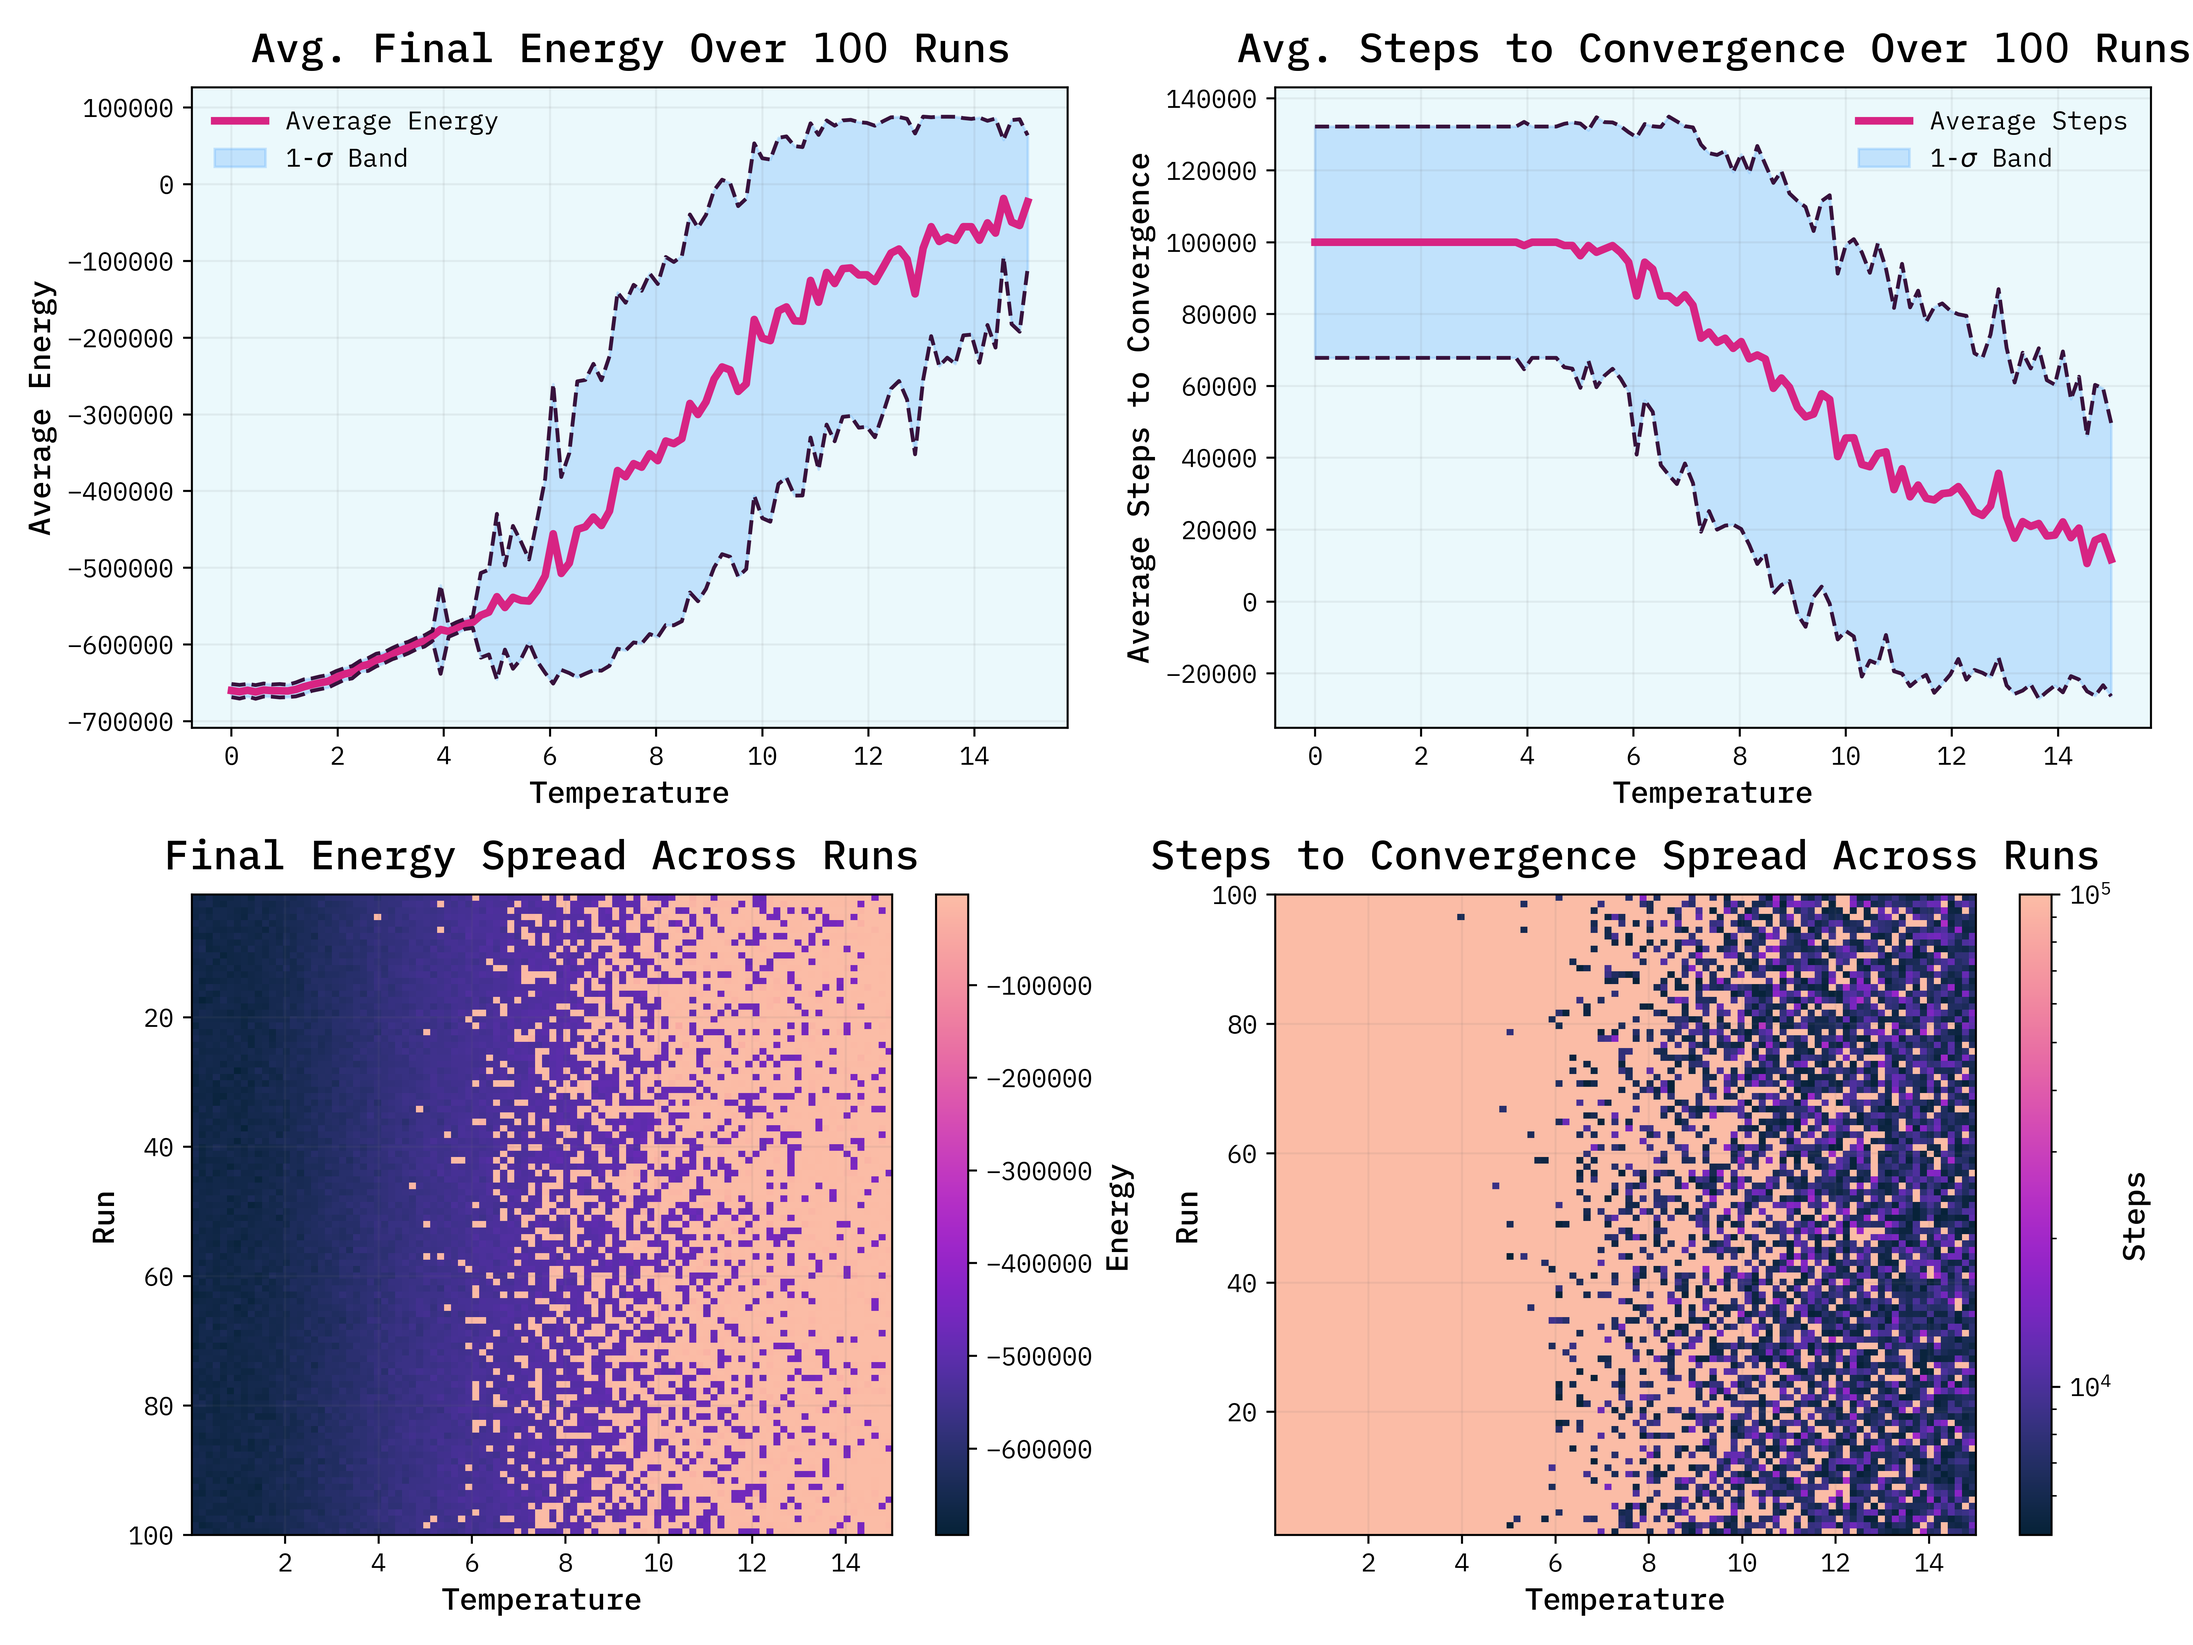
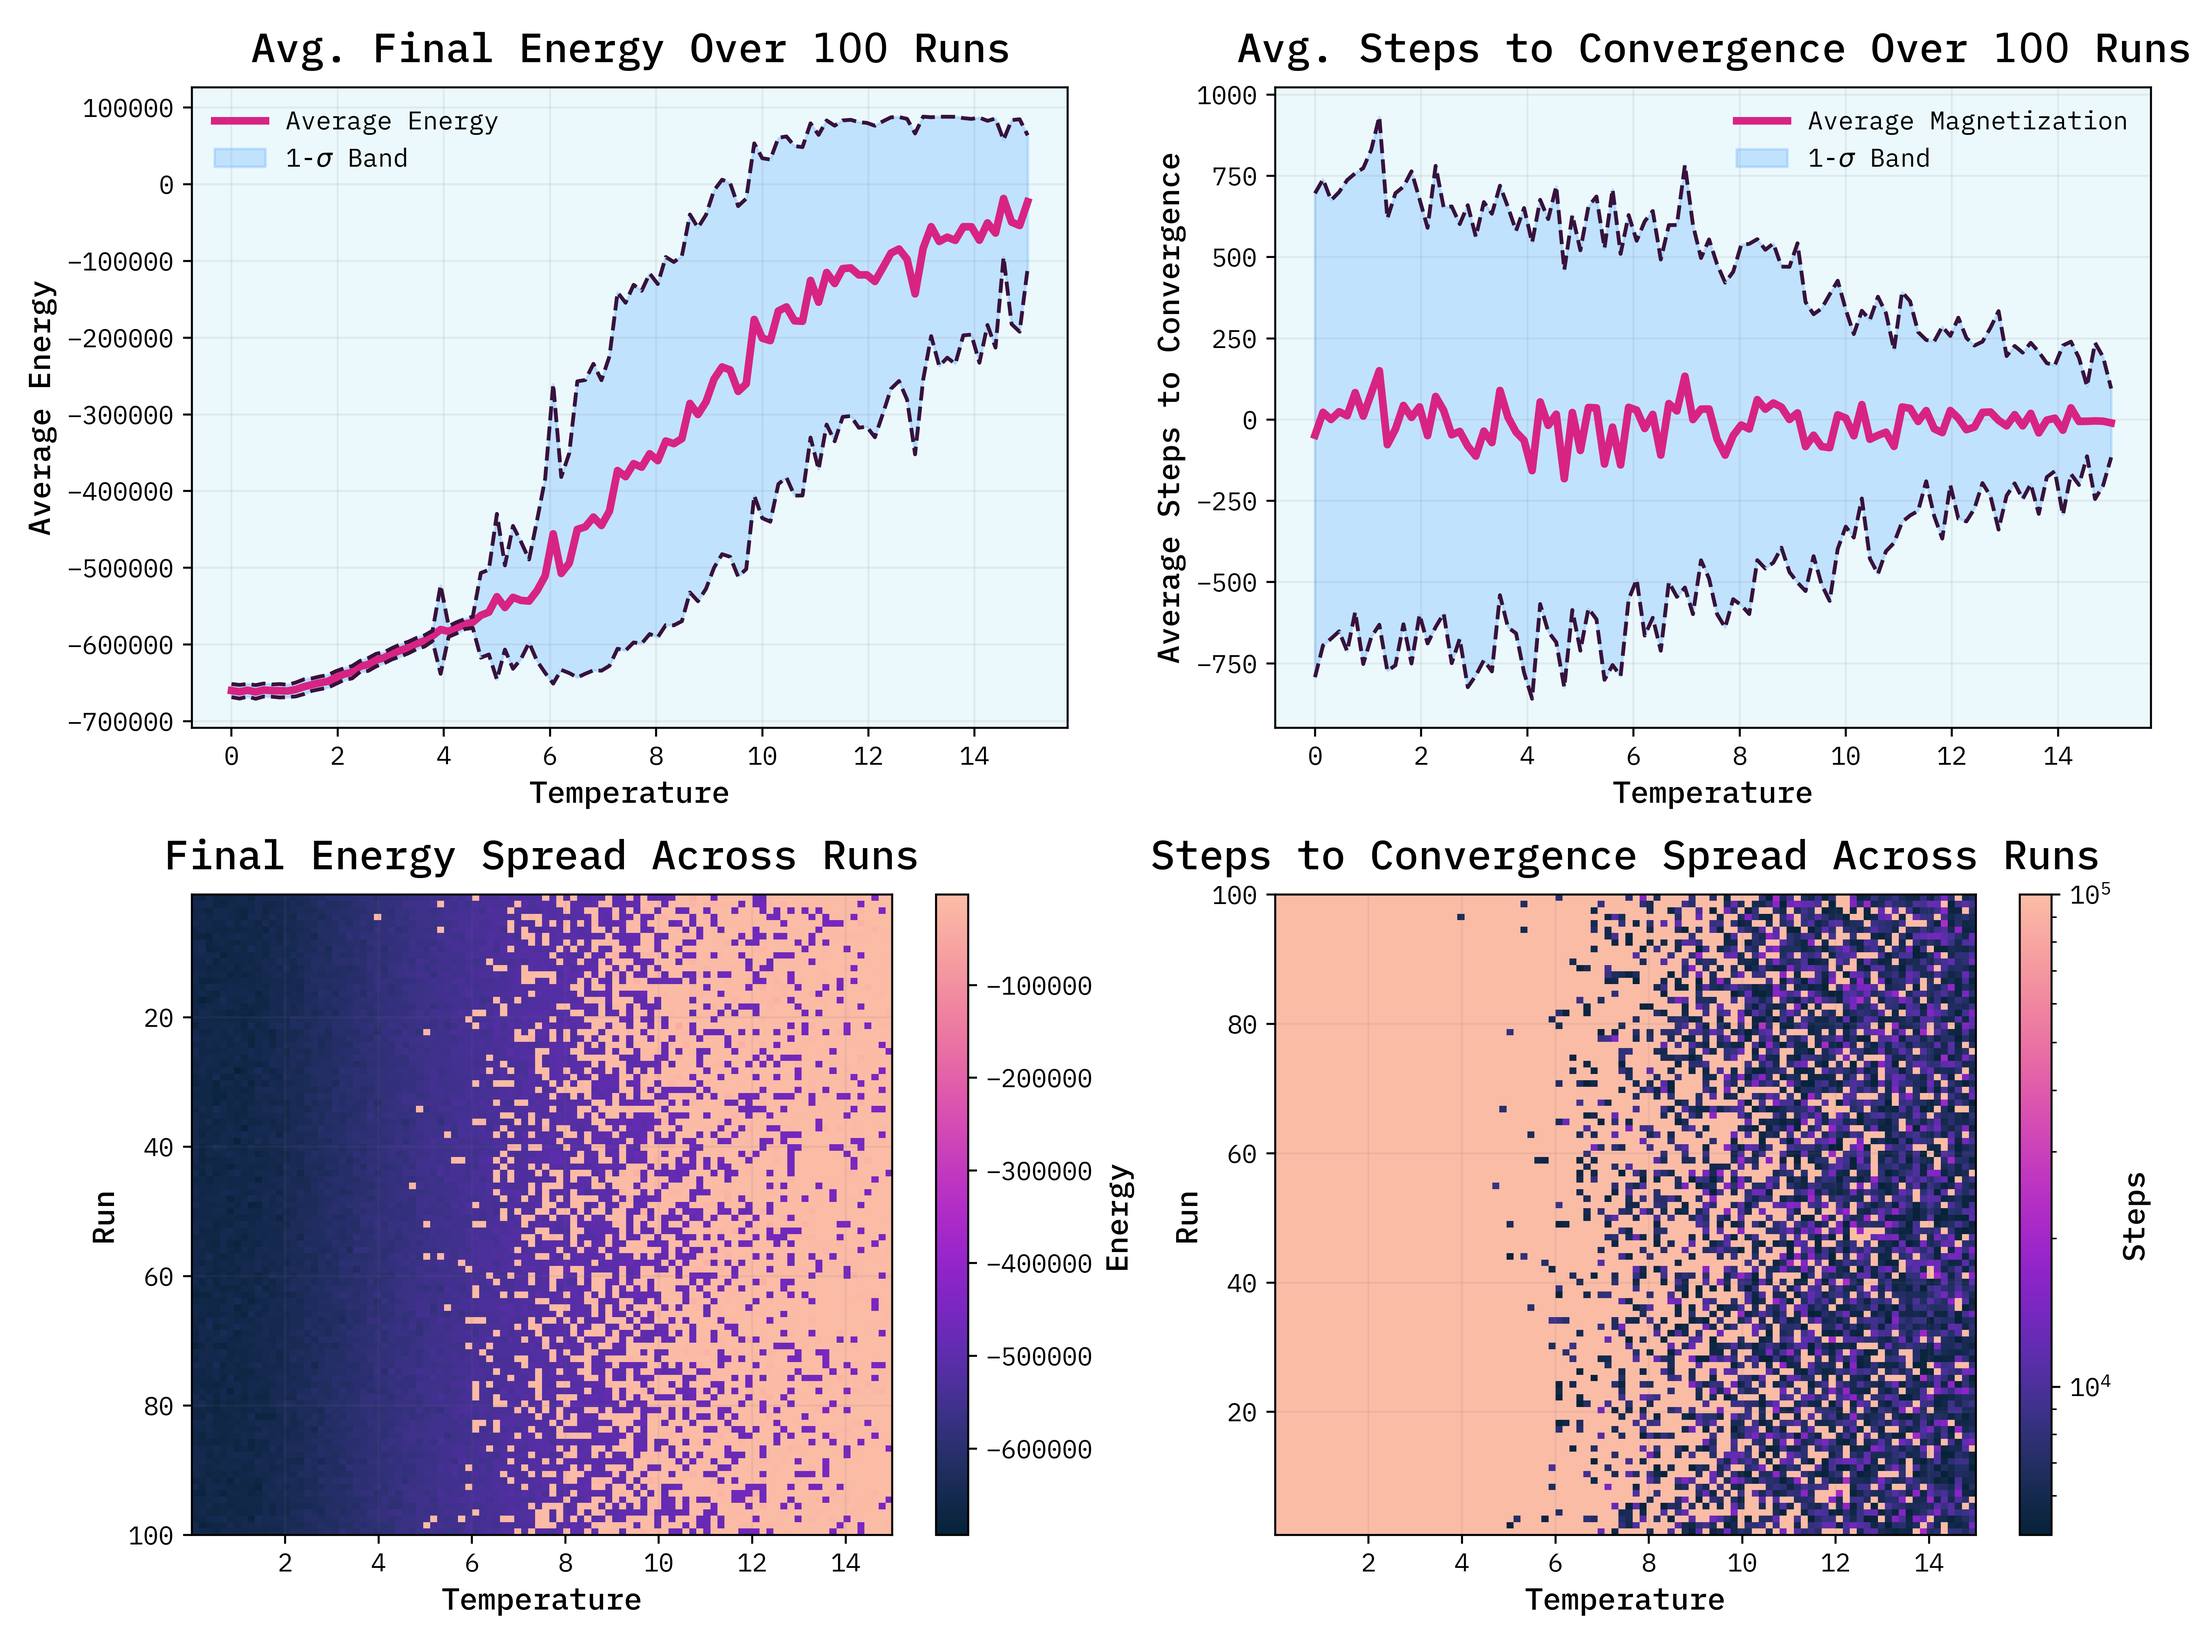
feat: :art: improve main Ising plot

Changed region(s): [[0.5922, 0.0622, 0.9662, 0.4356], [0.4987, 0.0933, 0.5922, 0.4356]]

diff --git a/IsingModel/Code/S-vs-T-plot.py b/IsingModel/Code/S-vs-T-plot.py
@@ -1,0 +1,134 @@
+"""
+Plot the average relaxation energy of the system as a function of temperature.
+"""
+import numpy as np
+import matplotlib.pyplot as plt
+import matplotlib as mpl
+import h5py
+import cmasher as cmr
+import palettable as pl
+
+# Enable custom stylesheet
+plt.style.use('./ma-style.mplstyle')
+mpl.use("qtagg")
+
+# Simulation parameters
+save_path = "./IsingModel/Results/avgE-vs-T-fixedscale.h5"
+bounds = (-18, 0)
+length = 17
+temperature = 1
+init = [0, -17, -4, -2, -8, -13, -7, -2, -5, -2, -3, -2, -3, -10, -15, -7, 0]
+molecules = np.arange(0, 17)
+T_values = np.loadtxt("./IsingModel/Code/T_range.lst")
+
+# Containers for data
+steps_to_convergence = []
+end_energy = []
+end_temperature = []
+end_states = []
+# Load data
+with h5py.File(save_path, "r") as f:
+    num_runs = 100
+
+    for i, T in enumerate(T_values):
+        row_states = []
+        row_steps = []
+        row_end_energy = []
+        row_end_temperature = []
+
+        for run in range(num_runs):
+            key = f"{T}-{run}"
+            group = f[key]
+            row_states.append(group[f"state-{key}"][:])
+            row_steps.append(len(group[f"energy-{key}"]))
+            row_end_energy.append(group[f"energy-{key}"][-1])
+            row_end_temperature.append(group[f"temperature-{key}"][-1])
+
+        end_states.append(row_states)
+        steps_to_convergence.append(row_steps)  
+        end_energy.append(row_end_energy)
+        end_temperature.append(row_end_temperature)
+
+# Calculate statistics
+steps_to_convergence = np.array(steps_to_convergence)
+avg_steps = np.mean(steps_to_convergence, axis=1)
+sigma_steps = np.std(steps_to_convergence - avg_steps, axis=1)
+
+end_energy = np.array(end_energy)
+avg_energy = np.mean(end_energy, axis=1)
+sigma_energy = np.std(end_energy, axis=1)
+
+end_temperature = np.array(end_temperature)
+avg_temperature = np.mean(end_temperature, axis=1)
+delta_temp = T_values - avg_temperature
+sigma_temperature = np.std(T_values - end_temperature, axis=1)
+
+# Calculate Observables: Eigenmagnetization
+def magnetization(state: np.ndarray):
+    S = np.array([[np.sum(np.array(final[run])) for run in range(num_runs)] for final in end_states]) 
+    return S
+
+S = np.abs(magnetization(end_states))
+avgS = np.mean(S, axis=1)
+sigmaS = np.std(S, axis=1)
+
+# Plot data as 3 subplots
+colors = ["#37123c","#d72483","#ddc4dd","#60afff","#98CE00"]
+
+fig, ax = plt.subplots(2, 2, figsize=(12, 9))
+
+# Average energy vs. temperature
+ax[0, 0].plot(T_values, avg_energy, color=colors[1], alpha=1, lw=3, label="Average Energy")
+ax[0, 0].plot(T_values, avg_energy - sigma_energy, color=colors[0], alpha=1, ls="--")
+ax[0, 0].plot(T_values, avg_energy + sigma_energy, color=colors[0], alpha=1, ls="--")
+ax[0, 0].fill_between(T_values, avg_energy - sigma_energy, avg_energy + sigma_energy, 
+                      color=colors[3], alpha=0.3, label="1-$\sigma$ Band")
+
+ax[0, 0].legend(frameon=False)
+ax[0, 0].set_ylabel("Average Energy [arb. units]")
+ax[0, 0].set_xlabel("Temperature")
+ax[0, 0].set_title(r"Avg. Final Energy Over $100$ Runs")
+
+
+# Average magnetization vs. temperature
+ax[0, 1].plot(T_values, avgS, color=colors[1], alpha=1, lw=3, label="Average Magnetization")
+ax[0, 1].plot(T_values, avgS - sigmaS, color=colors[0], alpha=1, ls="--")
+ax[0, 1].plot(T_values, avgS + sigmaS, color=colors[0], alpha=1, ls="--")
+ax[0, 1].fill_between(T_values, avgS - sigmaS, avgS + sigmaS, 
+                      color=colors[3], alpha=0.3, label="1-$\sigma$ Band")
+
+ax[0, 1].legend(frameon=False)
+ax[0, 1].set_ylabel("|Average Magnetization| [arb. units]")
+ax[0, 1].set_xlabel("Temperature")
+ax[0, 1].set_title(r"|Avg. Magnetization| Over $100$ Runs")
+
+# End Energy vs. Temperature vs. Run
+cm = cmr.get_sub_cmap('cmr.bubblegum', 0., 1.)
+norm = mpl.colors.Normalize(vmin=end_energy.min(), vmax=end_energy.max())
+sm = plt.cm.ScalarMappable(cmap=cm, norm=norm)
+ax[1, 0].imshow(end_energy.T, aspect="auto", cmap=cm, norm=norm,
+                extent=[T_values[0], T_values[-1], 100, 1])
+cbar = plt.colorbar(sm, ax=ax[1, 0])
+cbar.set_label("Energy [arb. units]")
+ax[1, 0].set_ylabel("Run")
+ax[1, 0].set_xlabel("Temperature")
+ax[1, 0].set_title("Final Energy Spread Across Runs")  
+
+# Steps to Convergence vs. Temperature vs. Run
+cm = cmr.get_sub_cmap('cmr.bubblegum', 0., 1.)
+norm = mpl.colors.Normalize(vmin=S.min(), vmax=S.max())
+sm = plt.cm.ScalarMappable(cmap=cm, norm=norm)
+
+ax[1, 1].imshow(S.T, aspect="auto", cmap=cm, norm=norm,
+                extent=[T_values[0], T_values[-1], 1, 100])
+cbar = plt.colorbar(sm, ax=ax[1, 1])
+cbar.set_label("|Magnetization| [arb. units]")
+# cbar.set_ticks([steps_to_convergence.min(), 1000, 10000, steps_to_convergence.max()])
+# cbar.set_ticklabels([steps_to_convergence.min(), "1000", "10000", steps_to_convergence.max()])
+ax[1, 1].set_ylabel("Run")
+ax[1, 1].set_xlabel("Temperature")
+ax[1, 1].set_title("|Magnetizaion| Spread Across Runs")  
+
+plt.tight_layout()
+plt.savefig("./IsingModel/Images/avgE-avgS-vs-T.png", dpi=500)
+plt.show()
